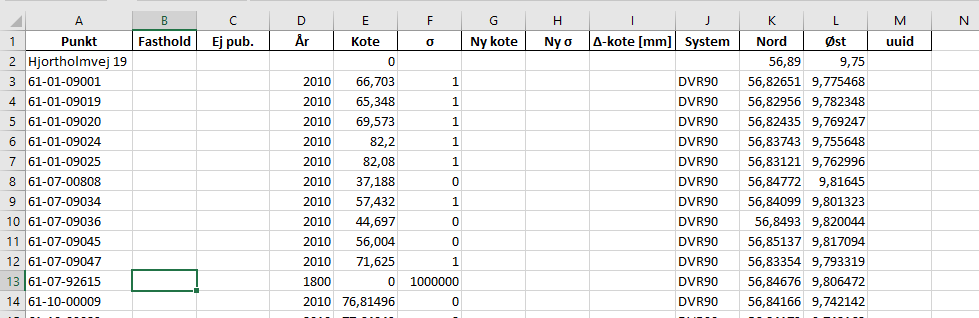
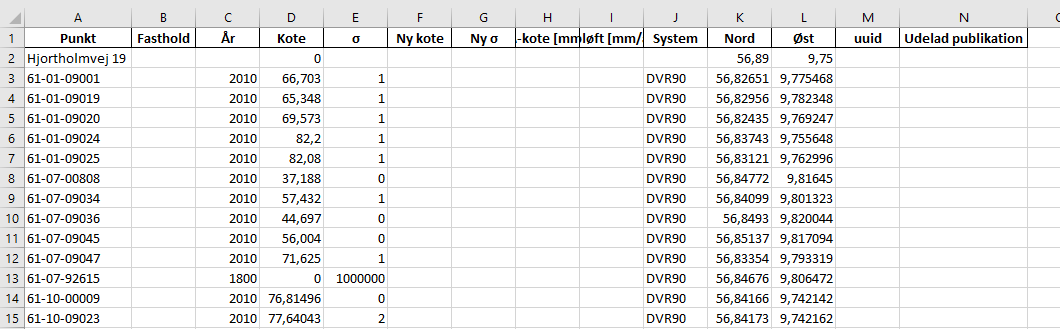
Flere opdateringer efter PR 222

Changed region(s): [[0.0, 0.0, 1.0, 1.0]]

diff --git a/docs/workshop/workshop.rst b/docs/workshop/workshop.rst
@@ -24,7 +24,7 @@ kasser, der kan hakkes af og en knap med *beregn* til til at lave en udjævning,
 som derefter bliver vist i QGIS, så må vi skuffe. 
 Det er ikke der vi er; vi er slet ikke nok folk til at kunne retfærdiggøre at 
 bruge tid og penge på at udvikle sådan noget, og desuden vil det være et hejs at 
-vedligeholde og videudvikle kode til, hvilket vi helst vil gøre selv.
+vedligeholde og videreudvikle kode til, hvilket vi helst vil gøre selv.
 Derfor er det altså stadig kommandolinjekald, som er vejen frem! Men dermed bliver 
 overgangen til ny database og beregningssoftware nok ikke så slem alligevel.
 
@@ -67,12 +67,16 @@ på billedet:
 
 Udtrækket viser den formodede relevante information, der ligger på punktet fra 
 attribut-tabellerne og fra koordinattabellerne.
-I eksemplet ses det fx, at punktet er oprettet i databasen 19/3 1985, at det også 
-hedder K-11-09263, og i øvrigt er et jessenpunkt til en tidsserie, samt at det 
-har en DVR90-kote fra 3. præc. indikeret ved EPSG-kode 5799 og beregningstidspunkt 
-11/2-2000 kl. 13:30), en plankoordinat fra 2011 (med EPSG-koden 4258) og to andre 
-koordinater i andre net. **Farven grøn indikerer at koordinaten er den gældende for 
-det pågældende net.**
+I eksemplet ses det fx, at punktet 
+
+- er oprettet i databasen 19/3 1985, 
+- også hedder K-11-09263, 
+- i øvrigt er et jessenpunkt til en tidsserie, 
+- har en DVR90-kote fra 3. præc. indikeret ved EPSG-kode 5799 og beregningstidspunkt 
+  11/2-2000 kl. 13:30), 
+- har en plankoordinat fra 2011 (med EPSG-koden 4258) og to andre 
+  koordinater i andre net. 
+  **Farven grøn indikerer at koordinaten er den gældende for det pågældende net.**
 
 På samme måde kan andre elementer slås op i databasen, bl.a. oplysninger om historiske 
 koter med parameteren *-K*, observationer med parameteren *-O* og andre detaljer med 
@@ -190,6 +194,10 @@ genereres det øjeblik punktet ilægges databasen nede i :ref:`step 4) <step4>`.
   :width: 800
   :alt: Opret nye punkter, excel-visning
 
+.. note:: Koordinater kan skrives både med UTM-format og med gradetal. ``fire`` genkender 
+   selv formatet og transformerer til geografiske koordinater, som er standard i ``fire``.
+
+
 Step 2) udtræk-revision
 ^^^^^^^^^^^^^^^^^^^^^^^^
 
@@ -225,7 +233,8 @@ I dette ark kan man nu rette attributterne til efter behov. Nedenfor er vist:
    *AFM:højde_over_terræn*
 2. ændring i lokationskoordinaten (*OVERVEJ:lokation*)
 3. tilføjelse af og om punktet kunne være muligt datumstabilt 
-   (*OVERVEJ:muligt_datumstabil*) og dens GNSS-egnetheden, *ATTR:gnss_egnet*
+   (*OVERVEJ:muligt_datumstabil*), at punktet nu er et restricted punkt 
+   (*ATTR:restricted*) og dens GNSS-egnetheden (*ATTR:gnss_egnet*)
 4. at punktet er besøgt ved at fjerne kryds i kolonnen *Ikke besøgt*
 
 .. image:: firenivudtrækrevision3.png
@@ -251,6 +260,13 @@ Step 3) ilæg-revision
 	> fire niv ilæg-revision --help
 
 .. image:: firenivilægrevision.png
+  :width: 800
+  :alt: Ilæg data fra punktrevision
+
+*Der findes dog pt. en testfunktion (parameteren* --test *), som kan vise dig hvor der er registreret nye 
+attributter på punkterne, men som ikke lægger noget i databasen.*
+
+.. image:: firenivilægrevision2.png
   :width: 800
   :alt: Ilæg data fra punktrevision
   
@@ -380,9 +396,39 @@ endelige vurdering af beregningen.
 Step 7) ilæg-observationer
 ^^^^^^^^^^^^^^^^^^^^^^^^^^^
 
+*ENDNU IKKE FÆRDIGIMPLEMENTERET*
+
+	> fire niv ilæg-observationer --help
+
+.. image:: firenivilægobs.png
+  :width: 800
+  :alt: Ilæg observationer i database
+  
+
 Step 8) ilæg-nye-koter 
 ^^^^^^^^^^^^^^^^^^^^^^^^^^^
 
+*ENDNU IKKE FÆRDIGIMPLEMENTERET*
+
+	> fire niv ilæg-nye-koter --help
+
+.. image:: firenivilægkoter.png
+  :width: 800
+  :alt: Ilæg nye koter i database
+
+
+Punktoversigten fra resultatarket indeholder den info, som skal lægges i databasen: 
+Koter, middelfejl osv. Hvis der er punkter, som man ikke ønsker skal have ny kote, 
+kan man sætte *x* i kolonnen *Udelad publikation*, som vist nedenfor:
+
+.. image:: firenivilægkoter2.png
+  :width: 800
+  :alt: Ilæg nye koter i database
+
+På den måde fremgår punktet stadig i projektfilen og det er tydeligt at punktet 
+er valgt fra ved koteopdateringen.
+
+  
 Step 9) luk-sag
 ^^^^^^^^^^^^^^^^^^^^^^^^^^^
 

diff --git a/docs/workshop/kald.rst b/docs/workshop/kald.rst
@@ -7,7 +7,7 @@ Navigation i terminalen
 +++++++++++++++++++++++++
 
 Her følger en kort liste over hvordan man i Windows navigerer rundt på sin pc 
-vha. en terminal (fx miniconda) og kommandoer på linjen her. 
+vha. en terminal (fx miniconda eller Cmder) og kommandoer på linjen her. 
 
 ===================  ===========================================  ===========================================
 **Kommando**         **Beskrivelse**                              **Eksempel på brug**
@@ -69,6 +69,7 @@ cat            Sammensæt flere filer til en samlet og vis på skærm         > 
 echo           Gentag input på skærmen, som kan pipes videre, fx til proj  > echo 12.4 55.8 36 | cct +proj=cart 
 grep           Søg efter bestemte udtryk i asciitekst og print til skærm   > grep -n DK test1
 vim            Tekstbehandlingsprogram, som notesblok, Notepad++ osv.      > vim test1
+less           Vis indholdet i en ascii-fil (ikke til redigering)          > less test1
 =============  ==========================================================  ===========================================
 
 Alle programmer kan yderligere udforskes ved at bruge parameteren *--help*, fx::

diff --git a/docs/workshop/intro.rst b/docs/workshop/intro.rst
@@ -4,7 +4,10 @@ Indledning
 ---------------------------------
 
 Velkommen til arbejdet med FIRE! Vi vil starte med at give en gennemgang af hvad 
-man kan med det nuværende setup, og løbende vil der komme mere på.
+man kan med det nuværende setup ift. at se hvad der ligger i databasen og derefter 
+vil vi lave en nivellementsberegning af en modificeret opmåling et sted i Danmark.
 
-Men før vi kommer rigtigt i gang, skal vi have noget basisviden om kommandolinjen.
+Men før vi kommer rigtigt i gang, skal vi have noget basisviden om kommandolinjen, 
+da alt beregning og kommunikation med FIRE foregår via terminalen gennem 
+kommandolinjekald.
 
